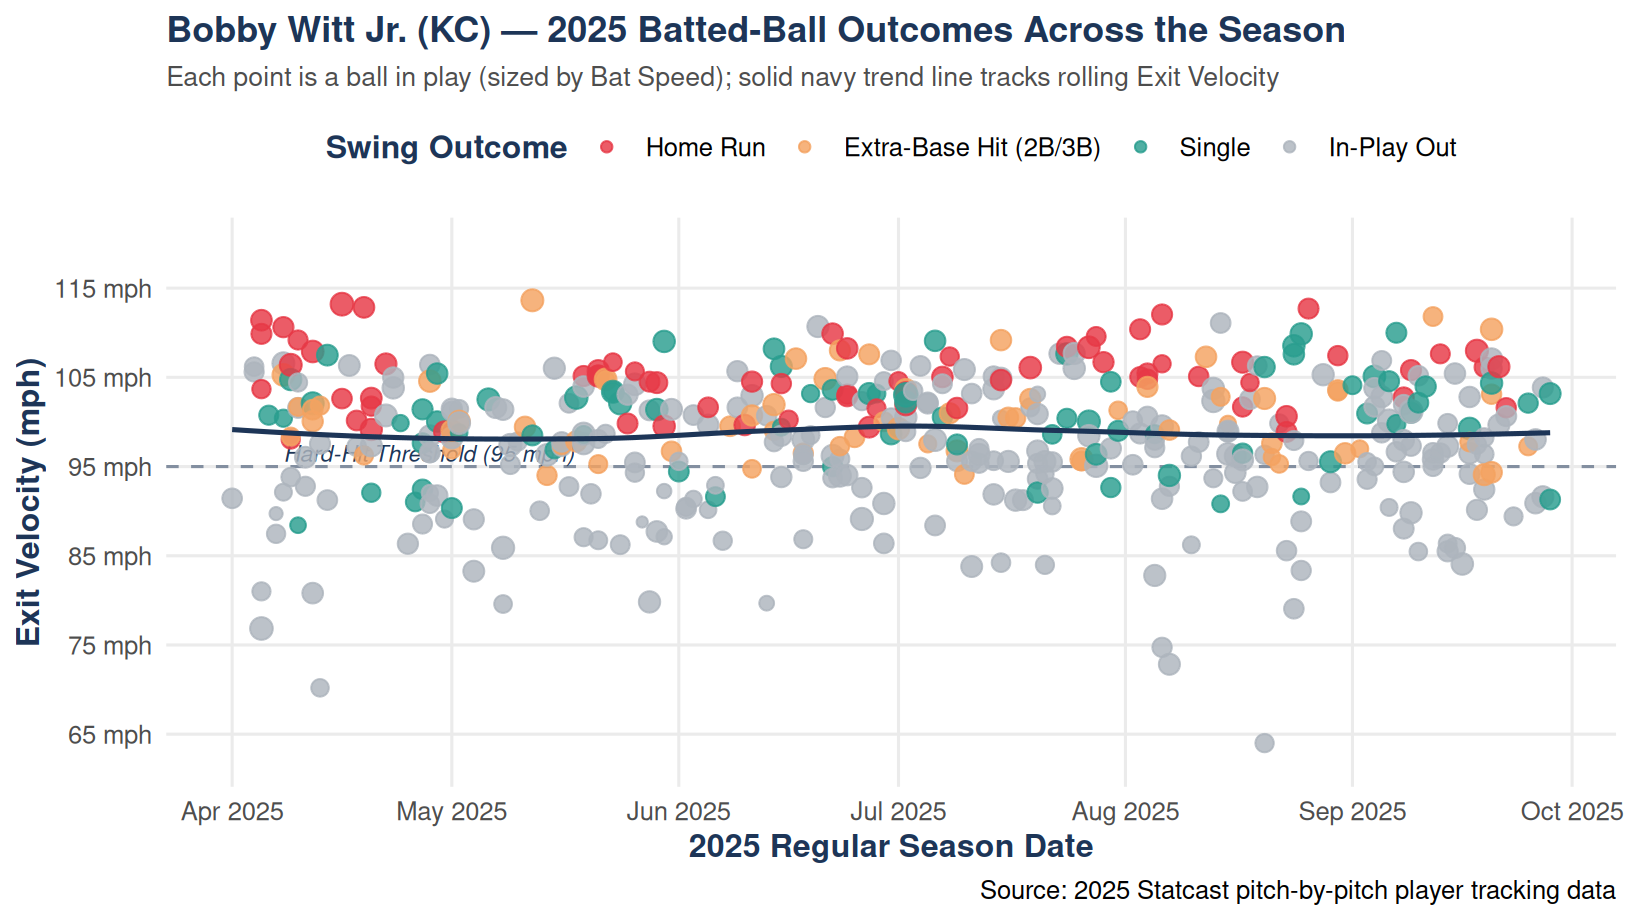
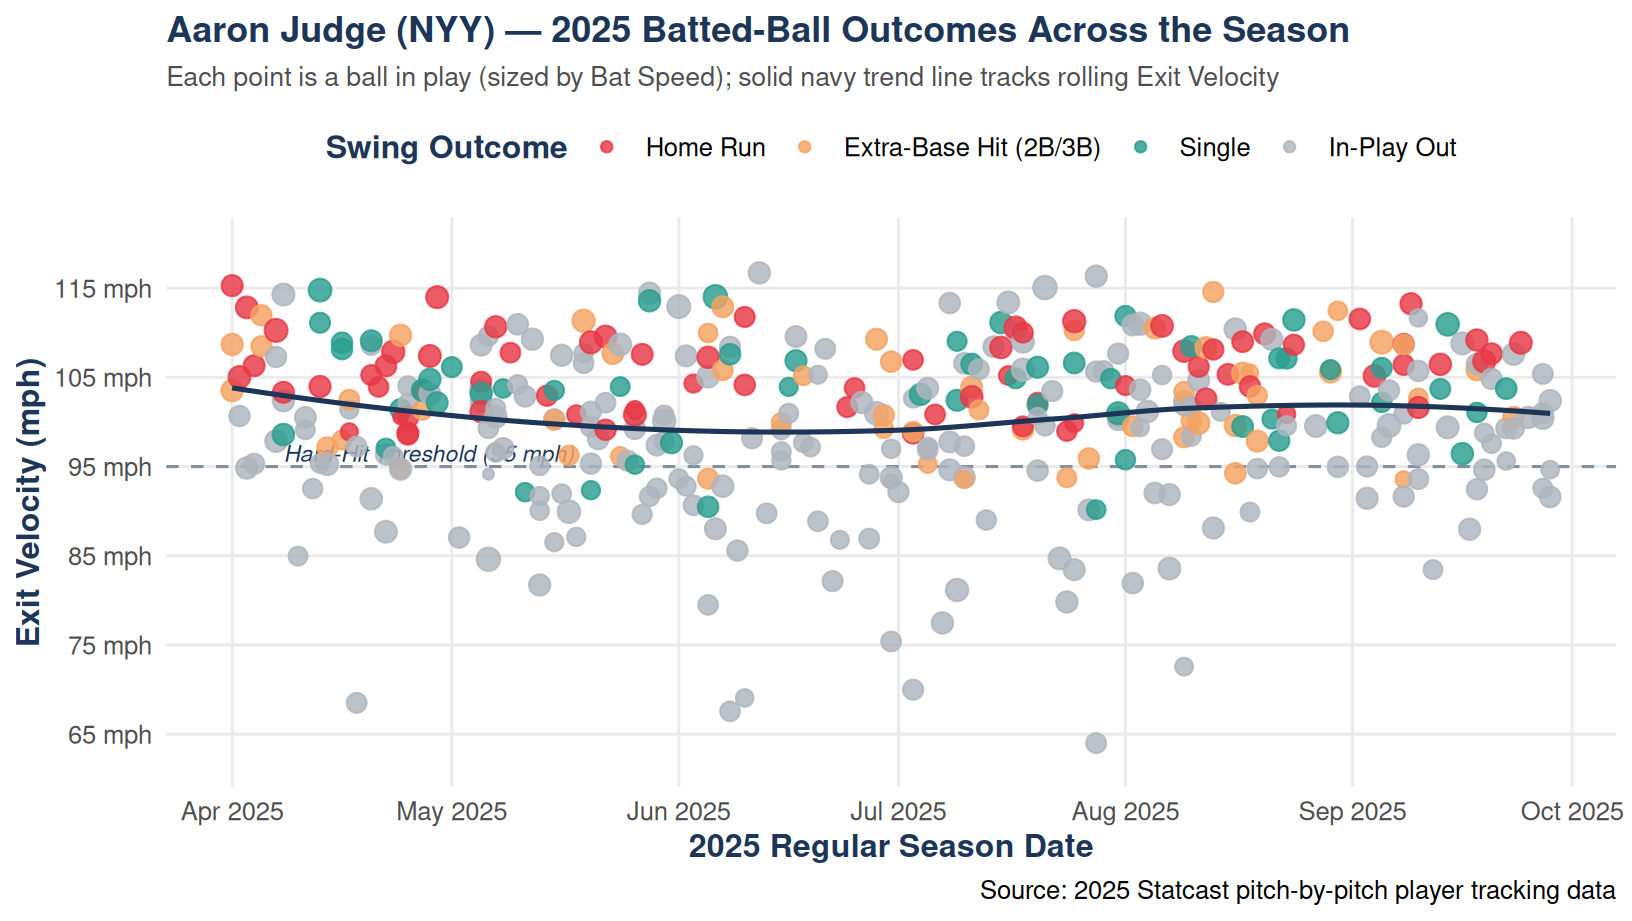
Add Baseball Savant stance and bat-path blurbs and visuals

diff --git a/project.html b/project.html
@@ -359,6 +359,22 @@ h2 {
 </div>
 </div>
 </div>
+<div class="stat-card">
+<p><strong>Baseball Savant Stance &amp; Bat-Path Breakdown — Kyle Stowers (<code>L/L</code>)</strong></p>
+<ul>
+<li><strong>Stance &amp; Starting Bat Angle:</strong> Sets up in a tall, slightly open left-handed stance (<span class="math inline">\(\sim 14^\circ\)</span> open) with his hands held high near the back shoulder. His bat starts at a steep vertical angle (<span class="math inline">\(\sim 68^\circ\)</span> above horizontal) with a subtle barrel tip toward the pitcher during his stride load, creating natural loft leverage.</li>
+<li><strong>Bat Path &amp; Attack Angle:</strong> Features a pronounced upward <strong>Attack Angle</strong> of <span class="math inline">\(\sim 15^\circ\text{--}17^\circ\)</span> and a steep <strong>Swing Path Tilt</strong> (<span class="math inline">\(\sim 37^\circ\)</span>). Because his <strong>Swing Length</strong> is relatively long (<span class="math inline">\(\sim 7.7\text{ ft}\)</span>), he generates elite fly-ball carry and pull-side barrels (<span class="math inline">\(\sim 74.2\text{ mph}\)</span> avg bat speed, <span class="math inline">\(42\%\)</span> Fast-Swing rate), though the steeper path leaves a larger window against high-spin elevated four-seam fastballs.</li>
+</ul>
+</div>
+<div class="cell">
+<div class="cell-output-display">
+<div>
+<figure class="figure">
+<p><img src="project_files/figure-html/unnamed-chunk-6-1.png" class="img-fluid figure-img" width="816"></p>
+</figure>
+</div>
+</div>
+</div>
 </div>
 <div id="panel-rutschman" class="player-panel">
 <div class="stat-card">
@@ -368,7 +384,23 @@ h2 {
 <div class="cell-output-display">
 <div>
 <figure class="figure">
-<p><img src="project_files/figure-html/unnamed-chunk-7-1.png" class="img-fluid figure-img" width="816"></p>
+<p><img src="project_files/figure-html/unnamed-chunk-8-1.png" class="img-fluid figure-img" width="816"></p>
+</figure>
+</div>
+</div>
+</div>
+<div class="stat-card">
+<p><strong>Baseball Savant Stance &amp; Bat-Path Breakdown — Adley Rutschman (<code>S/R</code>)</strong></p>
+<ul>
+<li><strong>Stance &amp; Starting Bat Angle:</strong> As a switch-hitter, Rutschman uses a balanced, slightly wider base (<span class="math inline">\(\sim 31\text{ in.}\)</span> stance width) from both sides of the plate, staying slightly more open from the left side than the right. He starts with his bat resting at a relaxed, flatter setup angle (<span class="math inline">\(\sim 45^\circ\text{--}50^\circ\)</span>) over his back shoulder, minimizing pre-pitch movement so his head stays still through pitch recognition.</li>
+<li><strong>Bat Path &amp; Attack Angle:</strong> Prioritizes a compact <strong>Swing Length</strong> (<span class="math inline">\(\sim 7.0\text{ ft}\)</span>) and a flatter, line-drive <strong>Attack Angle</strong> (<span class="math inline">\(\sim 9^\circ\text{--}11^\circ\)</span>) that stays on plane through the hitting zone for a long time. While his average bat speed (<span class="math inline">\(\sim 71.4\text{ mph}\)</span>) is moderate, his <strong>Squared-Up Rate</strong> (<span class="math inline">\(\sim 31\%\)</span>, top-decile on Baseball Savant) allows him to convert a high share of swings into hard line-drive singles and gap doubles.</li>
+</ul>
+</div>
+<div class="cell">
+<div class="cell-output-display">
+<div>
+<figure class="figure">
+<p><img src="project_files/figure-html/unnamed-chunk-9-1.png" class="img-fluid figure-img" width="816"></p>
 </figure>
 </div>
 </div>
@@ -382,7 +414,23 @@ h2 {
 <div class="cell-output-display">
 <div>
 <figure class="figure">
-<p><img src="project_files/figure-html/unnamed-chunk-9-1.png" class="img-fluid figure-img" width="816"></p>
+<p><img src="project_files/figure-html/unnamed-chunk-11-1.png" class="img-fluid figure-img" width="816"></p>
+</figure>
+</div>
+</div>
+</div>
+<div class="stat-card">
+<p><strong>Baseball Savant Stance &amp; Bat-Path Breakdown — Aaron Judge (<code>R/R</code>)</strong></p>
+<ul>
+<li><strong>Stance &amp; Starting Bat Angle:</strong> At <span class="math inline">\(6'7''\)</span>, Judge uses a slightly closed-to-neutral stance (<span class="math inline">\(\sim 5^\circ\)</span> closed) with a controlled two-strike toe-tap gather. His bat begins nearly vertical (<span class="math inline">\(\sim 75^\circ\text{--}80^\circ\)</span> starting bat angle) high above his rear shoulder, allowing gravity and torso rotation to accelerate the barrel into the zone without over-striding.</li>
+<li><strong>Bat Path &amp; Attack Angle:</strong> Combines <span class="math inline">\(99\text{th}\)</span>-percentile <strong>Bat Speed</strong> (<span class="math inline">\(\sim 77.4\text{ mph}\)</span>, <span class="math inline">\(&gt;70\%\)</span> Fast-Swing rate) with an <strong>Attack Angle</strong> of <span class="math inline">\(\sim 14^\circ\text{--}16^\circ\)</span> and a steep <strong>Swing Path Tilt</strong> (<span class="math inline">\(\sim 38^\circ\)</span>) tailored to lift pitches at the knees. Even with a longer <strong>Swing Length</strong> (<span class="math inline">\(\sim 8.1\text{ ft}\)</span>), his elite <strong>Blast Rate</strong> (<span class="math inline">\(&gt;22\%\)</span>) produces Statcast-leading barrel rates (<span class="math inline">\(&gt;25\%\)</span>) and exit velocities regularly topping <span class="math inline">\(115\text{ mph}\)</span>.</li>
+</ul>
+</div>
+<div class="cell">
+<div class="cell-output-display">
+<div>
+<figure class="figure">
+<p><img src="project_files/figure-html/unnamed-chunk-12-1.png" class="img-fluid figure-img" width="816"></p>
 </figure>
 </div>
 </div>
@@ -396,7 +444,23 @@ h2 {
 <div class="cell-output-display">
 <div>
 <figure class="figure">
-<p><img src="project_files/figure-html/unnamed-chunk-11-1.png" class="img-fluid figure-img" width="816"></p>
+<p><img src="project_files/figure-html/unnamed-chunk-14-1.png" class="img-fluid figure-img" width="816"></p>
+</figure>
+</div>
+</div>
+</div>
+<div class="stat-card">
+<p><strong>Baseball Savant Stance &amp; Bat-Path Breakdown — Bobby Witt Jr.&nbsp;(<code>R/R</code>)</strong></p>
+<ul>
+<li><strong>Stance &amp; Starting Bat Angle:</strong> Sets up in an athletic, slightly crouched and open stance (<span class="math inline">\(\sim 18^\circ\)</span> open) with his hands positioned near chest height. His bat starts at a medium-angled wrap (<span class="math inline">\(\sim 55^\circ\)</span> starting angle, tilted slightly behind his helmet) before firing with one of the quickest rotational hip-to-shoulder separations in MLB.</li>
+<li><strong>Bat Path &amp; Attack Angle:</strong> Generates elite <strong>Bat Speed</strong> (<span class="math inline">\(\sim 75.6\text{ mph}\)</span>) while maintaining a remarkably direct <strong>Swing Length</strong> (<span class="math inline">\(\sim 7.3\text{ ft}\)</span>) and a flatter <strong>Attack Angle</strong> (<span class="math inline">\(\sim 8^\circ\text{--}11^\circ\)</span>). Because his barrel enters the zone early and stays level through contact, he sprays <span class="math inline">\(100+\text{ mph}\)</span> line drives to all fields—driving a rare combination of high batting average, doubles, triples, and <span class="math inline">\(30+\)</span> home run power.</li>
+</ul>
+</div>
+<div class="cell">
+<div class="cell-output-display">
+<div>
+<figure class="figure">
+<p><img src="project_files/figure-html/unnamed-chunk-15-1.png" class="img-fluid figure-img" width="816"></p>
 </figure>
 </div>
 </div>
